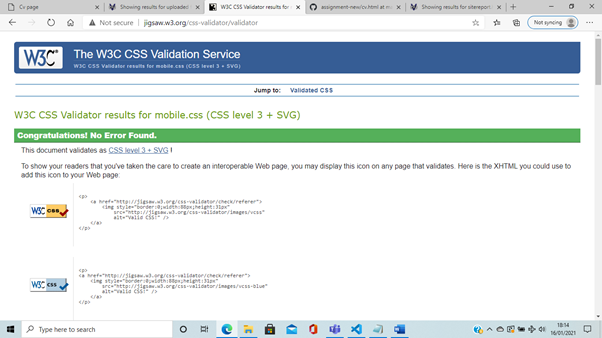
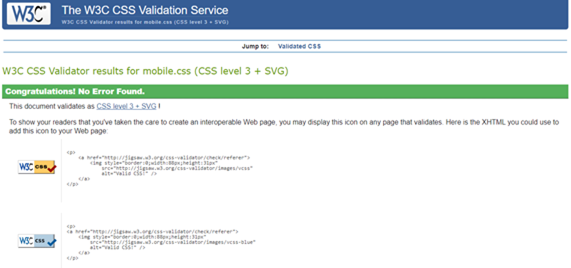
added more notes to my sitereport

diff --git a/sitereport.html b/sitereport.html
@@ -54,7 +54,11 @@ The reason why I choose this design was because this is the best layout that
   i learned about it and i was confident that it will come out right. 
   I kept everything consistence on every page for example, all the pages
    have the same text size and colours except from the headings which has
-    different colours on some pages.
+    different colours on some pages. 
+    For my decision for my design and everything to do with website was try and error, reason 
+    because i wanted to try different things to get used to it.
+    Below, i have screenshots of my validation and it shows that all mu HTML and CSS are all validated.
+
     </p>
  <h2>HTML Validation</h2>
  
@@ -79,10 +83,18 @@ The reason why I choose this design was because this is the best layout that
    </p>
 
    <h2>CSS Validation</h2>
-   
+   <p>Stylesheet validation<br>
+    <img src="images/stylesheet.png" alt="stylesheet_image">
+   </p>
 
+   <p>Stylesheetcv validation<br>
+    <img src="images/stylesheetcv.png" alt="stylesheet_image">
+   </p>
 
-
+   <p>Mobile CSS validation<br>
+    <img src="images/mobile.png" alt="mobile_image">
+   </p>
+ 
 
 
 
